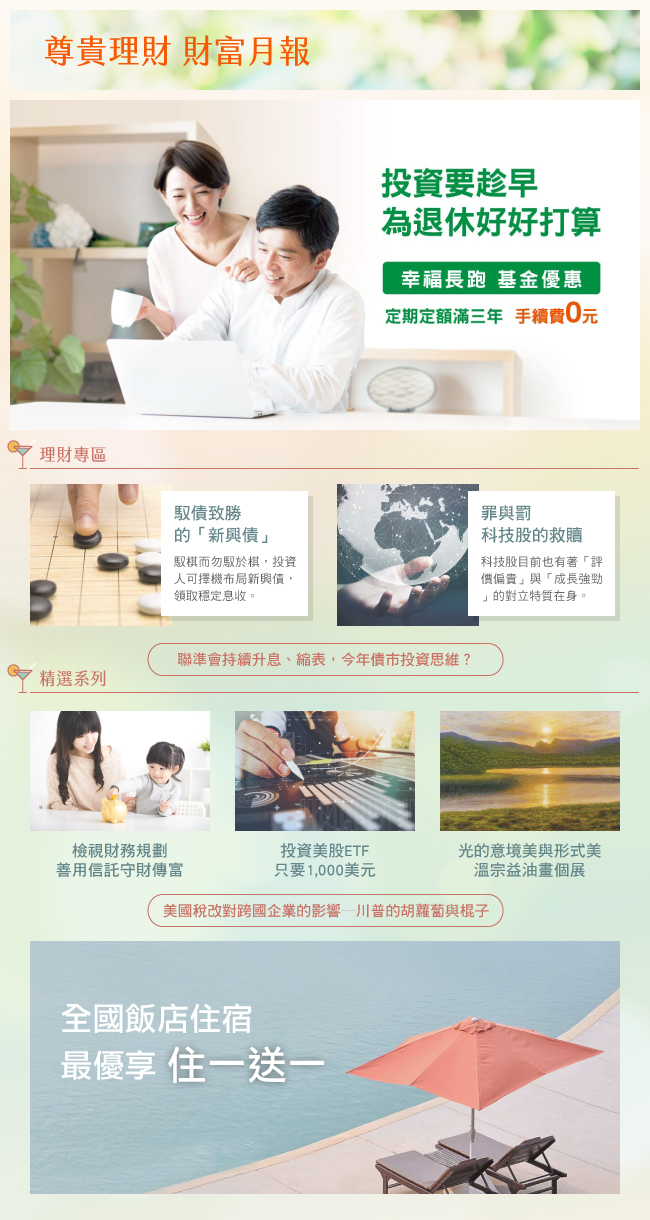
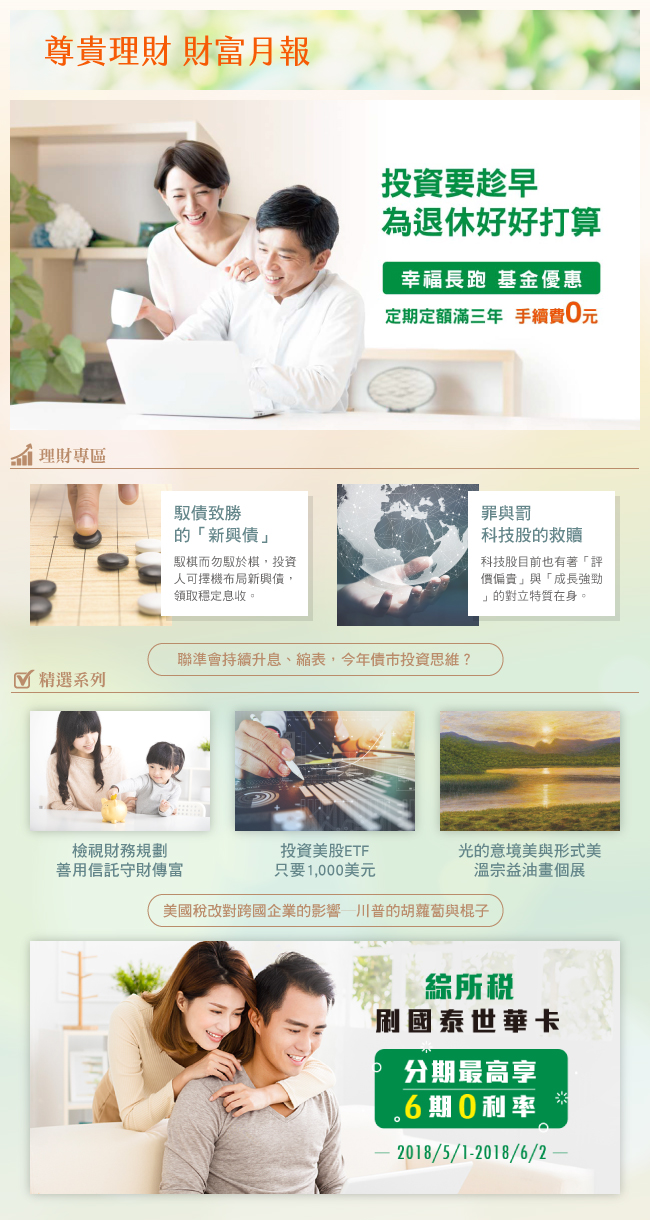
up

Changed region(s): [[0.0308, 0.7475, 0.9538, 0.9967], [0.0, 0.3426, 0.1538, 0.4049], [0.0, 0.5295, 0.1538, 0.5918]]

diff --git a/monthly-report-201805/index.html b/monthly-report-201805/index.html
@@ -129,16 +129,16 @@
 </table>
 
 <map name="Map6">
-  <area shape="rect" coords="9,100,640,431" href="https://www.cathaybk.com.tw/cathaybk/promo/event/fund/cathayfund/zero/index.html" target="_blank" alt="投資要趁早，為退休好好打算">
+  <area shape="rect" coords="9,100,640,431" href="https://www.cathaybk.com.tw/cathaybk/promo/event/fund/cathayfund/zero/index.html?CUB_SRC=WM_EDM&CUB_CHL1=BAN&CUB_CHL2=01&MA_TK=WM056&CUB_DT=20180507" target="_blank" alt="投資要趁早，為退休好好打算">
   <area shape="rect" coords="154,894,495,927" href="https://www.cathaybk.com.tw/cathaybk/" target="_blank" alt="美國稅改對跨國企業的影響">
   <area shape="rect" coords="29,711,212,880" href="https://www.cathaybk.com.tw/cathaybk/" target="_blank" alt="檢視財務規劃，善用信託守財傳富">
-  <area shape="rect" coords="234,711,415,880" href="https://www.cathaybk.com.tw/Cathaybk/personal/event/2017/201706_01/index.asp" target="_blank" alt="投資美股ETF，只要1,000美元">
-    <area shape="rect" coords="439,711,621,881" href="https://fund.cathaybk.org.tw/Art/Index" target="_blank" alt="光的意境美與形式美，溫宗益油畫個展">
-    <area shape="rect" coords="156,642,496,675" href="https://www.cathaybk.com.tw/cathaybk/promo/event/fund/cathayfund/market.html" target="_blank" alt="聯準會持續升息、縮表，
+  <area shape="rect" coords="234,711,415,880" href="https://www.cathaybk.com.tw/Cathaybk/personal/event/2017/201706_01/index.asp?CUB_SRC=WM_EDM&CUB_CHL1=BAN&CUB_CHL2=01&MA_TK=WM056&CUB_DT=20180507" target="_blank" alt="投資美股ETF，只要1,000美元">
+    <area shape="rect" coords="439,711,621,881" href="https://fund.cathaybk.org.tw/Art/Index?CUB_SRC=WM_EDM&CUB_CHL1=BAN&CUB_CHL2=01&MA_TK=WM056&CUB_DT=20180507" target="_blank" alt="光的意境美與形式美，溫宗益油畫個展">
+    <area shape="rect" coords="156,642,496,675" href="https://www.cathaybk.com.tw/cathaybk/promo/event/fund/cathayfund/market.html?CUB_SRC=WM_EDM&CUB_CHL1=BAN&CUB_CHL2=01&MA_TK=WM056&CUB_DT=20180507" target="_blank" alt="聯準會持續升息、縮表，
 
 今年債市投資思維？">
   <area shape="rect" coords="31,484,315,626" href="https://www.cathaybk.com.tw/cathaybk/" target="_blank" alt="馭債致勝的「新興債」">
-<area shape="rect" coords="29,941,621,1196" href="https://www.cathaybk.com.tw/cathaybk/personal/credit-card/discount/event/travel/hotel/?utm_source=interaction_ccdiscount&utm_medium=display&utm_content=3&utm_campaign=cc_hotel&utm_term=1070401" target="_blank" alt="全台飯店住宿，最優享住一送一">
+<area shape="rect" coords="29,941,621,1196" href="https://www.cathaybk.com.tw/Cathaybk/card/event/2018/201804tax/index.asp?CUB_SRC=WM_EDM&CUB_CHL1=BAN&CUB_CHL2=01&MA_TK=WM056&CUB_DT=20180507" target="_blank" alt="綜所稅刷國泰世華卡">
 <area shape="rect" coords="337,483,622,626" href="https://www.cathaybk.com.tw/cathaybk/" target="_blank" alt="罪與罰，科技股的救贖">
 </map>
 

diff --git a/MR201805-html/201805_4/index.html b/MR201805-html/201805_4/index.html
@@ -119,17 +119,8 @@ div.text_in:after {
                 </div>
                 
                 <div class="other_box">
-                     <div class="box_title s_18 b gray">【揭露事項與免責聲明】</div>
+                     <div class="box_title s_18 b gray">文 / KPMG安侯建業聯合會計師事務所執行副總經理丁傳倫、副總經理楊搓儀</div>
                      <div class="text_in">
-                      <p class="text_left_m10 s_16">                        
-                        本報告為國泰世華銀行（下稱“本公司”）提供尊貴理財客戶之參考資料，並非針對特定客戶所作的投資建議，且在本報告撰寫過程中，並未考量讀者個別的財務狀況與需求，故本報告所提供的資訊無法適用於所有讀者。
-                      </p>
-                      <p class="text_left_m10 s_16">
-                        本報告係根據本公司所取得的資訊加以彙集及研究分析，本公司並不保證各項資訊之完整性及正確性。本報告中所提出之意見係為本報告出版當時的意見，邇後相關資訊或意見若有變更，本公司將不會另行通知。本公司亦無義務持續更新本報告之內容或追蹤研究本報告所涵蓋之主題。本報告中提及的標的價格、價值及收益隨時可能因各種本公司無法控制之政治、經濟、市場等因素而產生變化。本報告中之各項預測，均係基於對目前所得資訊作合理假設下所完成，所以並不必然實現。本報告不得視為買賣有價證券或其他金融商品的要約或要約之引誘。
-                      </p>
-                      <p class="text_left_m10 s_16">
-                      國泰金融集團（下稱“本集團”）所屬各公司可能個別基於特定目的且針對特定人士出具研究報告、提供口頭或書面的市場看法或投資建議（下稱“提供資訊”），鑑於提供資訊之單位、時間、對象及目的不同，本報告與本集團其他單位所提供資訊可能有不一致或相牴觸之情事；本集團所屬公司從事各項金融業務，包括但不限於銀行、保險、證券經紀、承銷、自有資金投資、資產管理、證券投資信託等。本集團各公司對於本報告所涵蓋之標的可能有投資或其他業務往來關係，各公司從事交易之方向亦可能與本報告不一致，讀者應審慎評估自身投資風險，自行決定投資方針，不應以前述不一致或相抵觸為由，主張本公司或本集團其他成員有侵害讀者權益之情事。
-                      </p>
                        
                      </div>
                   
